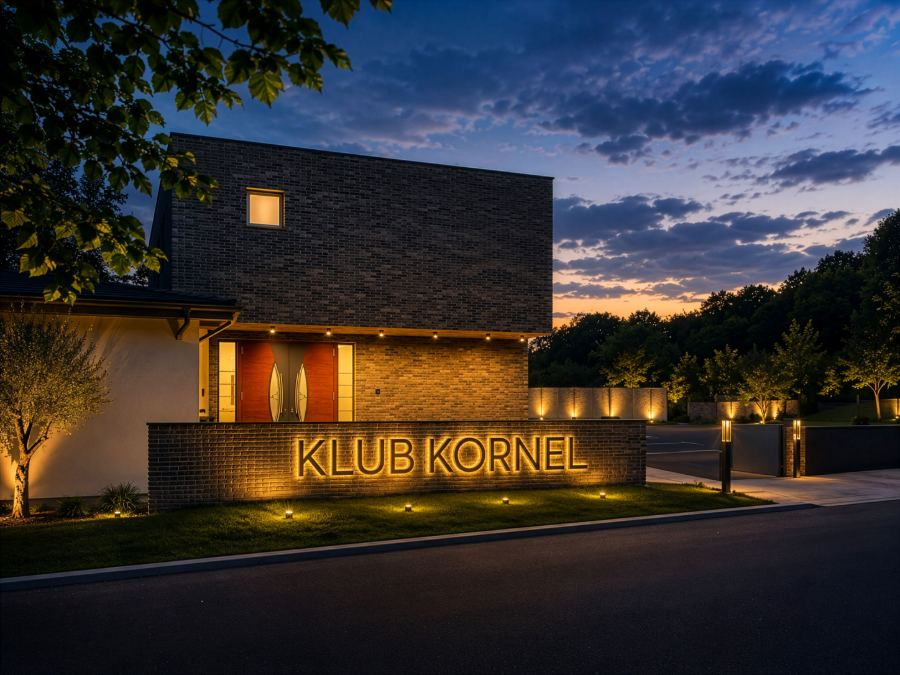
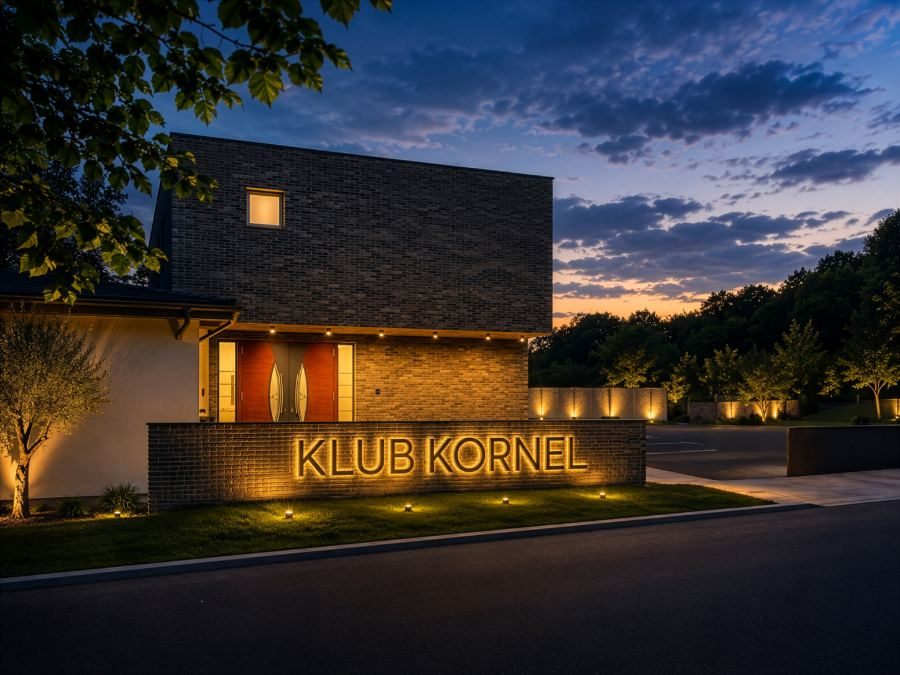
Add files via upload

Changed region(s): [[0.7156, 0.6222, 0.9333, 0.7467]]

diff --git a/index.html b/index.html
@@ -200,7 +200,7 @@
       <div style="{{ escapeColStyle }}">
         <span style="{{ eyebrowStyle }}">01 — MJESTO</span>
         <h2 style="{{ escapeH2Style }}">
-          <span style="{{ escapeLine1Style }}">POLA SATA<br/>OD ZAGREBA.</span>
+          <span style="{{ escapeLine1Style }}">SAMO POLA SATA<br/>OD ZAGREBA.</span>
           <span style="{{ escapeLine2Style }}">DALEKO OD<br/>SVAKODNEVICE.</span>
         </h2>
         <div style="{{ escapeMeterStyle }}">
@@ -210,7 +210,7 @@
             <span style="font-family:'JetBrains Mono',monospace;font-size:10px;letter-spacing:0.2em;color:rgba(240,236,226,0.62);">MINUTA OD ZAGREBA</span>
           </div>
         </div>
-        <p style="{{ escapeCopyStyle }}">Klub Kornel smješten je u zelenilu Donje Drenove, nadomak Svetog Ivana Zeline i svega pola sata od Zagreba. Dovoljno blizu za bijeg na dan ili dva, a opet dovoljno izdvojen da se zaista odmaknete od svakodnevice.</p>
+        <p style="{{ escapeCopyStyle }}">Klub Kornel smješten je u zelenilu Donje Drenove, nadomak Svetog Ivana Zeline. Dovoljno blizu za bijeg na dan ili dva, a opet dovoljno izdvojen da se zaista odmaknete od svakodnevice.</p>
         <div style="display:flex;gap:clamp(24px,4vw,56px);margin-top:clamp(16px,2.6vh,36px);flex-wrap:wrap;">
           <sc-for list="{{ escapeData }}" as="d" hint-placeholder-count="2">
             <div style="{{ d.style }}"><div style="{{ dataLabelStyle }}">{{ d.label }}</div><div style="{{ dataValueStyle }}">{{ d.value }}</div></div>
@@ -789,12 +789,12 @@ class Component extends DCLogic {
       escapePhotoStyle: `width:100%;height:100%;object-fit:cover;object-position:${mob ? '58% 52%' : '62% 55%'};display:block;`
         + GRADE('filter:saturate(0.88) contrast(1.08) brightness(0.94);'),
       heroSectionStyle: `position:relative;height:100svh;min-height:${mob ? 480 : 600}px;overflow:hidden;`,
-      heroImgStyle: `width:100%;height:100%;object-fit:cover;object-position:${mob ? '46% 74%' : '38% 68%'};display:block;backface-visibility:hidden;`
+      heroImgStyle: `width:100%;height:100%;object-fit:cover;object-position:${mob ? '52% 72%' : '46% 62%'};display:block;backface-visibility:hidden;`
         + (mob ? '' : '')
         + (reduced ? '' : 'animation:kk-hero-drift 34s ease-in-out infinite;'),
 
       // hero — foreground / background depth
-      heroLayerFar: `position:absolute;inset:0;transform:scale(${1 + heroP * (mob ? 0.03 : 0.06)});transform-origin:${mob ? '46% 74%' : '42% 68%'};will-change:transform;`,
+      heroLayerFar: `position:absolute;inset:0;transform:scale(${1 + heroP * (mob ? 0.03 : 0.06)});transform-origin:${mob ? '52% 72%' : '46% 62%'};will-change:transform;`,
       heroTopVeilStyle: `position:absolute;inset:0;z-index:3;pointer-events:none;display:${mob ? 'block' : 'none'};background:linear-gradient(180deg,rgba(4,8,6,0.86) 0%,rgba(4,8,6,0.6) 30%,rgba(4,8,6,0.18) 54%,transparent 70%);`,
       heroGlowStyle: `position:absolute;display:${mob ? 'none' : 'block'};left:14%;top:58%;width:48%;height:30%;z-index:1;pointer-events:none;border-radius:50%;filter:blur(46px);background:radial-gradient(closest-side, rgba(250,184,26,0.5), transparent 100%);opacity:0.18;`
         + (reduced ? '' : 'animation:kk-hero-glow 9s ease-in-out infinite;'),
